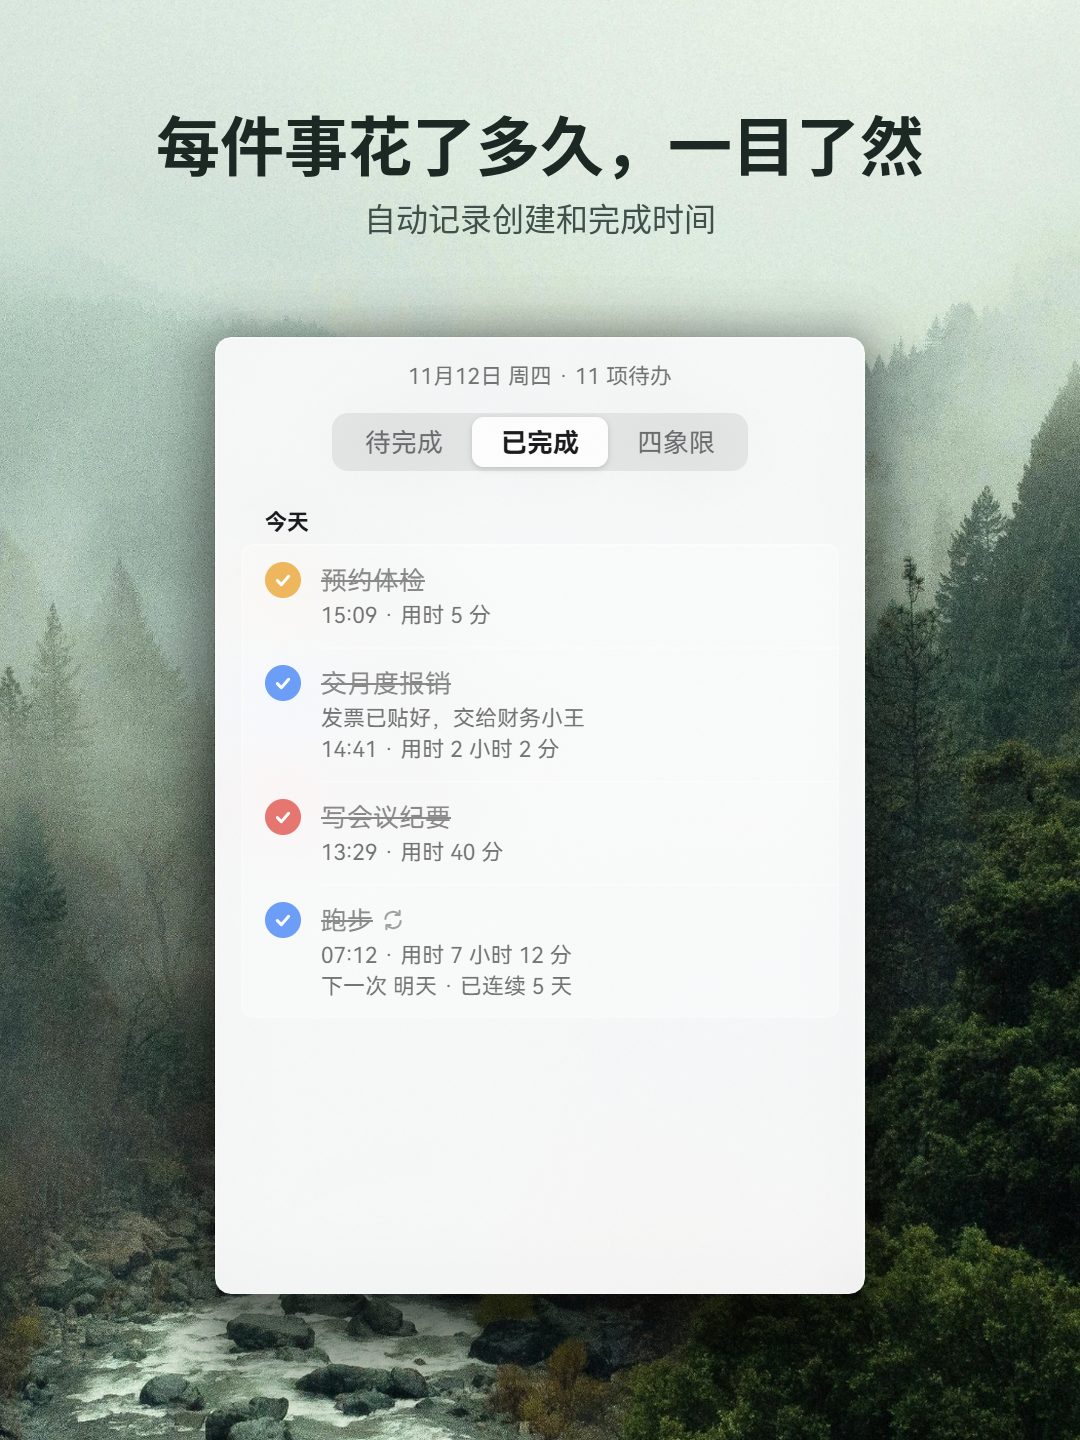
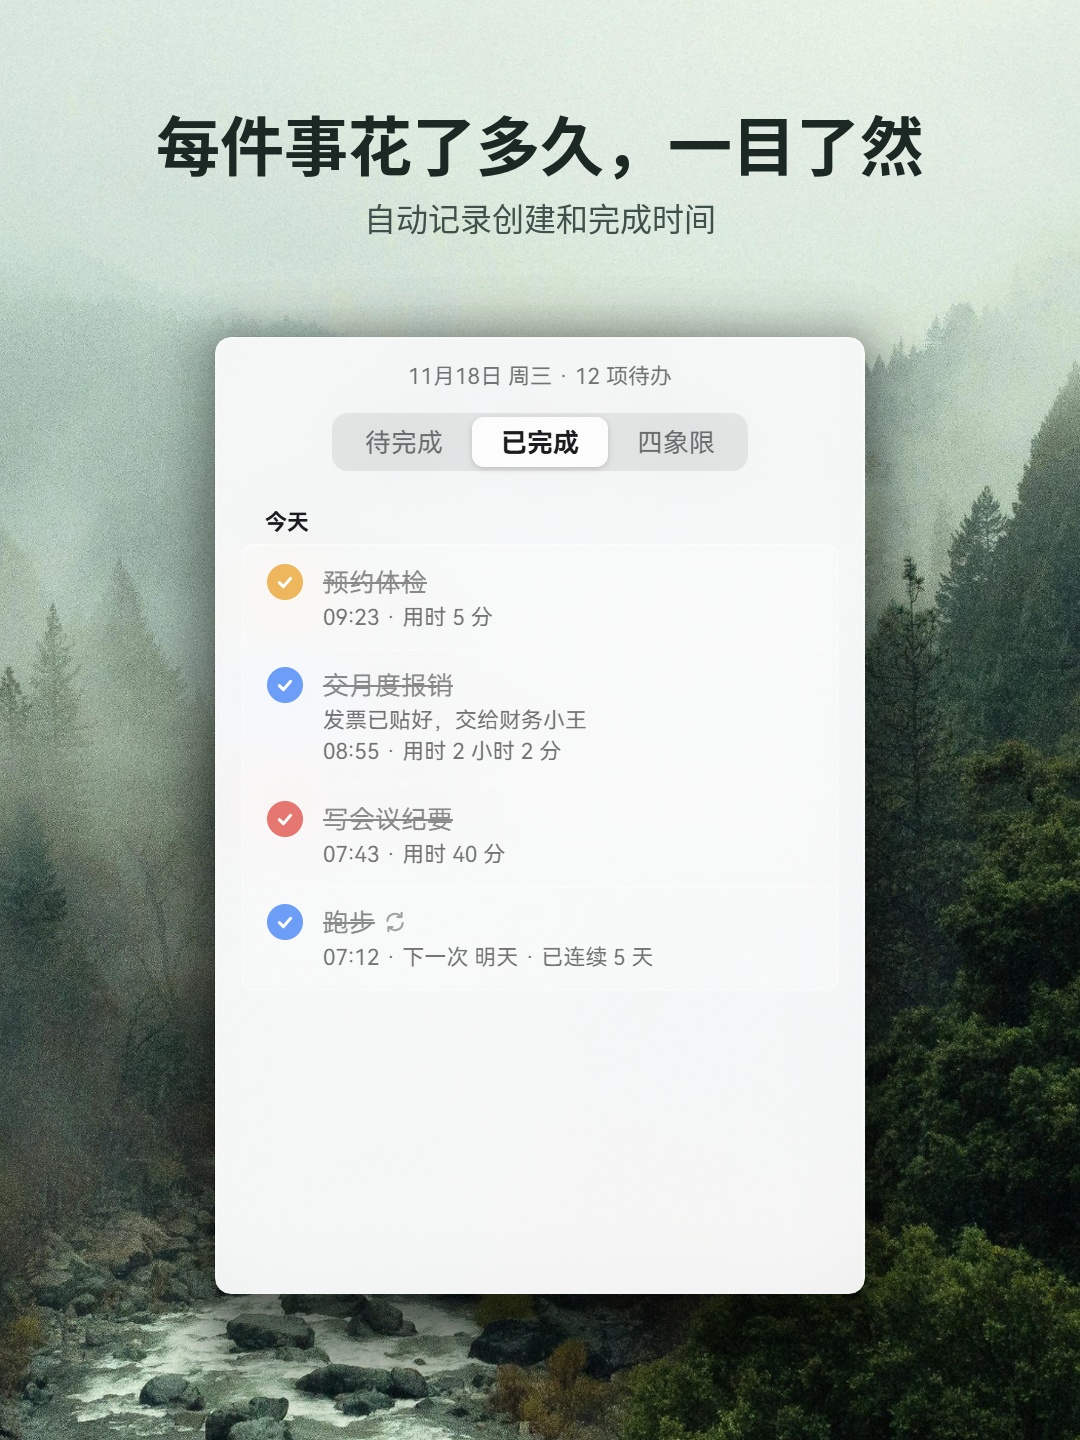
README：新增简洁模式、颗粒感、按日期整理、小月历的说明，更新三张截图并新增简洁模式截图

diff --git a/README.md b/README.md
@@ -12,6 +12,7 @@
 ![待完成](images/todo.png)
 ![四象限](images/quadrant.png)
 ![已完成](images/done.png)
+![简洁模式](images/simple.png)
 
 ## 功能
 
@@ -19,12 +20,14 @@
 - **随叫随到**：快捷键（默认 `Alt+Shift+T`，可以在设置里换）或点托盘图标呼出 / 隐藏，呼出后直接输入新任务
 - **三种收起方式**：桌面常驻（默认）；贴边隐藏：拖到屏幕边缘，鼠标离开就缩进去，只留一条细边，鼠标顶到边缘停一下就滑出来；点击外部隐藏：快捷键呼出，点窗口外面就藏回托盘，没打完的内容再呼出时还在
 - **贴边吸附**：拖到屏幕边缘附近自动贴紧
-- **设置页**：背景不透明度（40%～100%）、呼出快捷键、收起方式、开机自启、自动检查更新
-- **三个视图**：待完成 / 已完成 / 四象限（立即做、计划做、快速处理、以后再说），`Ctrl+1 / 2 / 3` 切换
+- **设置页**：简洁模式、背景不透明度（40%～100%）、颗粒感、呼出快捷键、收起方式、开机自启、自动检查更新
+- **三个视图**：待完成 / 已完成 / 四象限（立即做、计划做、快速处理、以后再说，双击象限标题可以改名，「未分类」也能改），`Ctrl+1 / 2 / 3` 切换
+- **简洁模式**：不想分优先级的话，在设置 → 外观里打开，只显示一张清单，不分象限和颜色，整张清单随便拖；关掉后恢复四象限
 - **四象限拖动**：拖动任务就能换象限，同一象限内拖动可以调整顺序；新建时末尾写 `!1` ~ `!4` 直接指定象限
-- **循环任务**：右键「循环…」，可选每天 / 工作日（周一至周五，不跟随法定节假日和调休）/ 每周（可多选）/ 每月；能设结束日期、跳过一次或停止
+- **按日期整理**：右键任务或列表空白处「按日期整理」，有时间的按先后排到前面（在四象限里只整理那一格），可以撤销
+- **循环任务**：右键「循环…」或点任务旁的循环图标，可选每天 / 工作日（周一至周五，不跟随法定节假日和调休）/ 每周（可多选）/ 每月；能直接选钟点、设结束日期、跳过一次或停止
 - **任务备注**：右键「添加备注」，备注显示在任务下方；四象限里把鼠标停在备注图标上查看
-- **时间识别与提醒**：标题里写"明天下午3点""周三晚""30分钟后"会自动识别成提醒时间；到点弹出系统通知，可以直接点"完成 / 30 分钟后 / 明天"
+- **时间识别与提醒**：标题里写"明天下午3点""周三晚""30分钟后"会自动识别成提醒时间，也可以右键「设置时间…」在小月历上选（双击日期直接设好）；到点弹出系统通知，可以直接点"完成 / 30 分钟后 / 明天"
 - **过期标红**：过了时间还没完成的任务标红，托盘图标出现红点
 - **今日焦点**：每天最多选 3 项，排在列表最上面
 - **早上开工简报**：每天第一次解锁电脑时，用一整页帮你看一眼今天的安排、选好今日焦点
@@ -38,10 +41,9 @@
 - **打字就能设提醒**：新建任务时直接写"明天下午3点交报告""周五开会"，会自动识别成提醒时间（输入框下方出现 ⏰ 标签，点它能改，✕ 取消）。只写日期、没写钟点的，默认上午 9:00 提醒。
 - **看长标题的全名**：标题太长被截断时，鼠标停一下就会浮出全名。
 - **改任务名**：双击任务文字，或选中后按 `F2`，或右键 →「重命名」。`Enter` 保存，`Esc` 取消，点别处也会保存。
-- **草稿不会丢**：新建任务时离开输入框，内容会保留成草稿，按回车才保存成任务。
+- **草稿不会丢**：新建任务时离开输入框，内容会保留成草稿，退出再打开也还在，按回车才保存成任务。
 - **贴边隐藏要先开启**：默认是"桌面常驻"。想让窗口缩到屏幕边上，先点右上角齿轮 → 收起方式 → 选「贴边隐藏」，再把窗口拖到屏幕边缘。
 - **真正退出**：关窗口只是藏到托盘；要退出请右键托盘图标 →「退出」。
-- **当纯清单用**：不想分优先级的话，一直用「待完成」页就行，新建时不选象限，四象限可以完全不用。
 - **看不到毛玻璃效果？** Windows 关闭了「透明效果」或开了节能模式时，会改用磨砂色背景，设置页会说明原因；打开 设置 → 个性化 → 颜色 → 透明效果 即可恢复。
 
 ## 下载和使用
